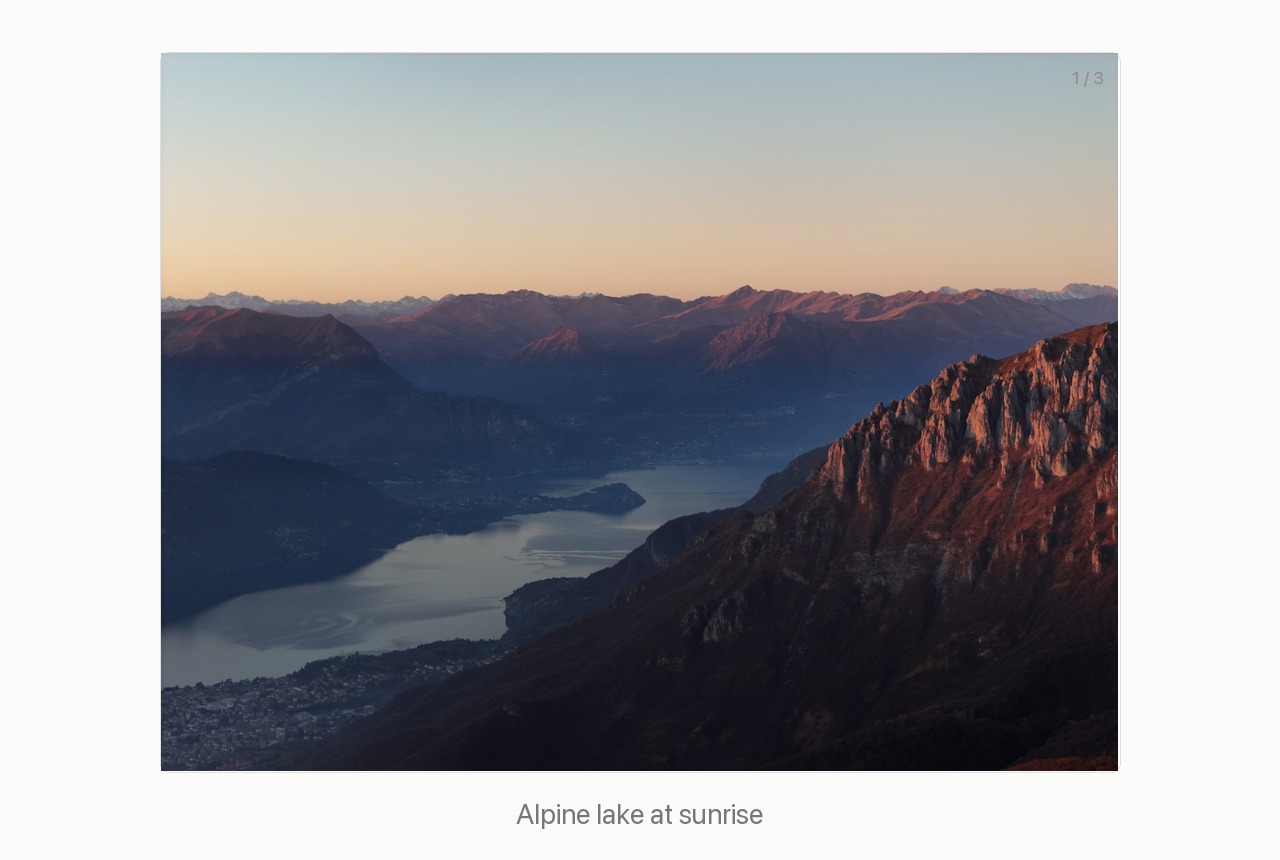
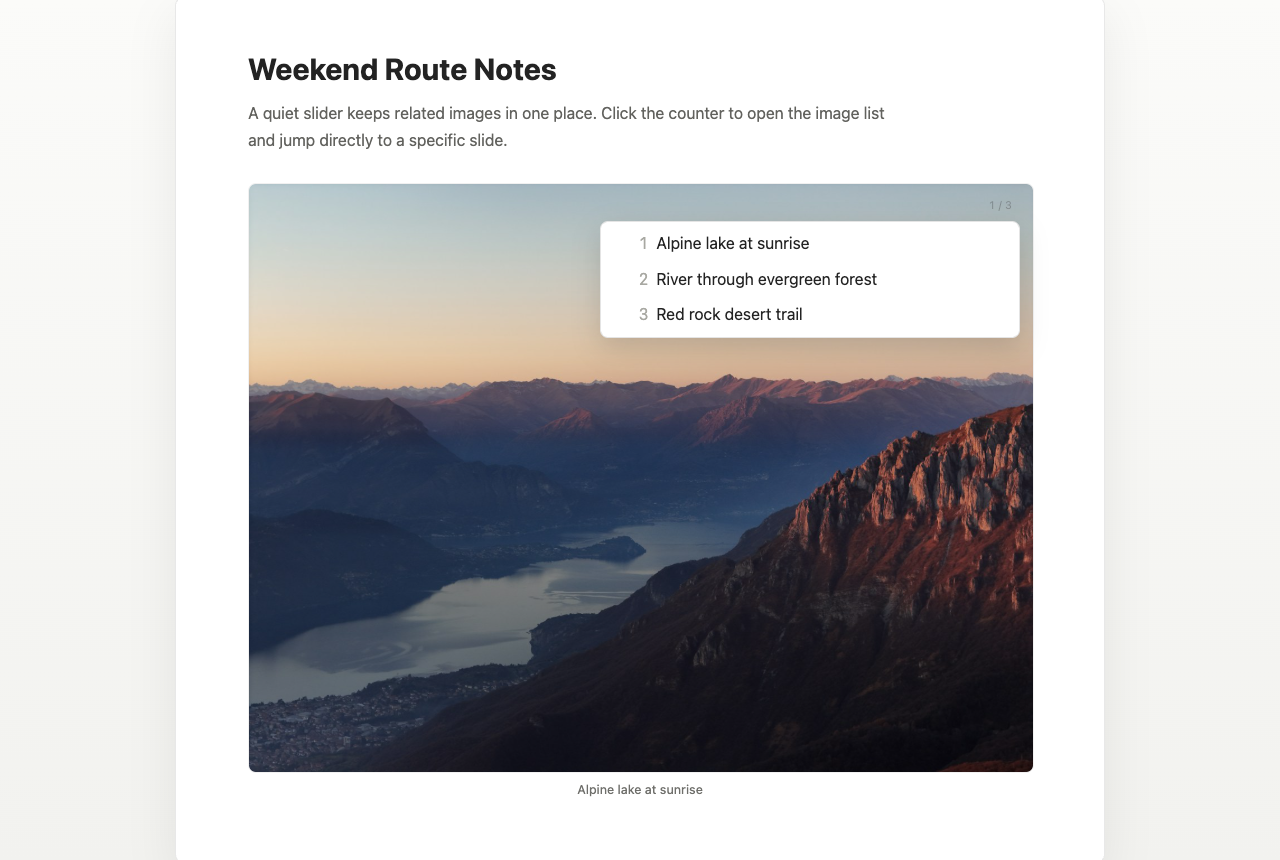
Release 0.1.4 image index UI

diff --git a/main.ts b/main.ts
@@ -371,7 +371,6 @@ export default class SimpleImageSliderPlugin extends Plugin {
     const wrapper = container.createDiv({ cls: "simple-image-slider" });
     wrapper.tabIndex = 0;
     wrapper.setAttr("role", "group");
-    wrapper.setAttr("aria-label", "Image slider");
 
     const frame = wrapper.createDiv({ cls: "simple-image-slider__frame" });
     const track = frame.createDiv({ cls: "simple-image-slider__track" });
@@ -392,18 +391,78 @@ export default class SimpleImageSliderPlugin extends Plugin {
         "aria-live": "polite"
       }
     });
+    const statusButton = status.createEl("button", {
+      cls: "simple-image-slider__index-button",
+      attr: {
+        "aria-expanded": "false",
+        "aria-haspopup": "listbox",
+        type: "button"
+      }
+    });
+    const indexMenu = wrapper.createDiv({
+      cls: "simple-image-slider__index-menu simple-image-slider__index-menu--hidden",
+      attr: {
+        role: "listbox"
+      }
+    });
     const caption = wrapper.createDiv({
       cls: "simple-image-slider__caption"
     });
 
     let previousButton: HTMLButtonElement | null = null;
     let nextButton: HTMLButtonElement | null = null;
+    let isDocumentClickBound = false;
 
     const normalizeIndex = (index: number): number =>
       (index + slides.length) % slides.length;
 
     const rememberCurrentSlide = (): void => {
       onSlideChange(currentIndex, slides[currentIndex].path);
+    };
+
+    const menuLabelForSlide = (slide: ResolvedSlide): string =>
+      slide.caption || fileNameFromPath(slide.path);
+
+    const onDocumentClick = (): void => {
+      closeIndexMenu();
+    };
+
+    function closeIndexMenu(): void {
+      indexMenu.addClass("simple-image-slider__index-menu--hidden");
+      statusButton.setAttr("aria-expanded", "false");
+      if (isDocumentClickBound) {
+        document.removeEventListener("click", onDocumentClick);
+        isDocumentClickBound = false;
+      }
+    }
+
+    const openIndexMenu = (): void => {
+      indexMenu.removeClass("simple-image-slider__index-menu--hidden");
+      statusButton.setAttr("aria-expanded", "true");
+      if (!isDocumentClickBound) {
+        document.addEventListener("click", onDocumentClick);
+        isDocumentClickBound = true;
+      }
+    };
+
+    const toggleIndexMenu = (): void => {
+      if (indexMenu.hasClass("simple-image-slider__index-menu--hidden")) {
+        openIndexMenu();
+      } else {
+        closeIndexMenu();
+      }
+    };
+
+    const jumpToIndex = (index: number): void => {
+      if (isAnimating) {
+        return;
+      }
+
+      currentIndex = normalizeIndex(index);
+      rememberCurrentSlide();
+      update();
+      closeIndexMenu();
+      wrapper.focus();
     };
 
     const setTrackOffset = (offsetPx: number, animated: boolean): void => {
@@ -435,7 +494,18 @@ export default class SimpleImageSliderPlugin extends Plugin {
       caption.textContent = slide.caption;
       caption.toggleClass("simple-image-slider__caption--hidden", !slide.caption);
 
-      status.textContent = `${currentIndex + 1} / ${slides.length}`;
+      statusButton.textContent = `${currentIndex + 1} / ${slides.length}`;
+
+      const options = Array.from(
+        indexMenu.querySelectorAll<HTMLButtonElement>(
+          ".simple-image-slider__index-option"
+        )
+      );
+      for (const [index, option] of options.entries()) {
+        const isCurrent = index === currentIndex;
+        option.toggleClass("simple-image-slider__index-option--current", isCurrent);
+        option.setAttr("aria-selected", isCurrent ? "true" : "false");
+      }
     };
 
     const update = (): void => {
@@ -483,6 +553,7 @@ export default class SimpleImageSliderPlugin extends Plugin {
         return;
       }
 
+      closeIndexMenu();
       isAnimating = true;
       const frameWidth = frame.getBoundingClientRect().width;
       setTrackOffset(direction === 1 ? -frameWidth : frameWidth, true);
@@ -498,6 +569,39 @@ export default class SimpleImageSliderPlugin extends Plugin {
     };
 
     if (slides.length > 1) {
+      statusButton.addEventListener("click", (event: MouseEvent) => {
+        event.preventDefault();
+        event.stopPropagation();
+        toggleIndexMenu();
+      });
+
+      indexMenu.addEventListener("click", (event: MouseEvent) => {
+        event.stopPropagation();
+      });
+
+      slides.forEach((slide, index) => {
+        const option = indexMenu.createEl("button", {
+          cls: "simple-image-slider__index-option",
+          attr: {
+            role: "option",
+            type: "button"
+          }
+        });
+        option.createSpan({
+          cls: "simple-image-slider__index-number",
+          text: String(index + 1)
+        });
+        option.createSpan({
+          cls: "simple-image-slider__index-label",
+          text: menuLabelForSlide(slide)
+        });
+        option.addEventListener("click", (event: MouseEvent) => {
+          event.preventDefault();
+          event.stopPropagation();
+          jumpToIndex(index);
+        });
+      });
+
       previousButton = frame.createEl("button", {
         cls: "simple-image-slider__button simple-image-slider__button--previous",
         attr: {
@@ -525,12 +629,20 @@ export default class SimpleImageSliderPlugin extends Plugin {
         return;
       }
 
-      if (event.key === "ArrowRight") {
+      if (event.key === "Escape") {
+        closeIndexMenu();
+      } else if (event.key === "ArrowRight") {
         event.preventDefault();
         slideWithAnimation(1);
       } else if (event.key === "ArrowLeft") {
         event.preventDefault();
         slideWithAnimation(-1);
+      }
+    });
+
+    this.register(() => {
+      if (isDocumentClickBound) {
+        document.removeEventListener("click", onDocumentClick);
       }
     });
 

diff --git a/styles.css b/styles.css
@@ -3,7 +3,7 @@
   --sis-control-fg-hover: rgba(23, 23, 23, 0.56);
   --sis-caption-fg: var(--text-muted);
   --sis-chip-bg: transparent;
-  --sis-chip-fg: rgba(23, 23, 23, 0.42);
+  --sis-chip-fg: rgba(23, 23, 23, 0.58);
   --sis-radius: 8px;
   --sis-frame-border: color-mix(
     in srgb,
@@ -153,14 +153,112 @@ button.simple-image-slider__button--next {
   color: var(--sis-chip-fg);
   font-size: 0.68em;
   font-variant-numeric: tabular-nums;
-  line-height: 1.2;
-  opacity: 0.6;
+  line-height: 1;
+  opacity: 0.66;
   padding: 0;
   position: absolute;
   right: 12px;
   text-align: center;
   top: 12px;
   z-index: 2;
+}
+
+button.simple-image-slider__index-button {
+  -webkit-appearance: none;
+  align-items: center;
+  appearance: none;
+  background: transparent;
+  border: 0;
+  border-radius: 5px;
+  box-shadow: none;
+  color: inherit;
+  cursor: pointer;
+  display: inline-flex;
+  font: inherit;
+  height: auto;
+  justify-content: center;
+  line-height: 1;
+  min-height: 0;
+  min-width: 0;
+  opacity: inherit;
+  padding: 5px 8px;
+  transition:
+    background-color 120ms ease,
+    box-shadow 120ms ease,
+    color 120ms ease,
+    opacity 120ms ease;
+}
+
+button.simple-image-slider__index-button:hover,
+button.simple-image-slider__index-button:focus-visible {
+  background: rgba(245, 245, 245, 0.76);
+  box-shadow: inset 0 0 0 1px rgba(23, 23, 23, 0.12);
+  color: rgba(23, 23, 23, 0.62);
+  opacity: 0.95;
+}
+
+.simple-image-slider__index-menu {
+  background: var(--background-primary);
+  border: 1px solid var(--background-modifier-border);
+  border-radius: var(--sis-radius);
+  box-shadow: 0 10px 28px rgba(0, 0, 0, 0.14);
+  box-sizing: border-box;
+  max-height: min(280px, 62vh);
+  min-width: min(320px, calc(100% - 24px));
+  overflow-y: auto;
+  padding: 4px;
+  position: absolute;
+  right: 12px;
+  top: 38px;
+  width: min(420px, calc(100% - 24px));
+  z-index: 8;
+}
+
+.simple-image-slider__index-menu--hidden {
+  display: none;
+}
+
+button.simple-image-slider__index-option {
+  -webkit-appearance: none;
+  align-items: center;
+  appearance: none;
+  background: transparent;
+  border: 0;
+  border-radius: 6px;
+  box-shadow: none;
+  color: var(--text-normal);
+  cursor: pointer;
+  display: grid;
+  font: inherit;
+  gap: 8px;
+  grid-template-columns: 2.2em minmax(0, 1fr);
+  line-height: 1.35;
+  padding: 7px 8px;
+  text-align: left;
+  width: 100%;
+}
+
+button.simple-image-slider__index-option:hover,
+button.simple-image-slider__index-option:focus-visible {
+  background: var(--background-modifier-hover);
+  color: var(--text-normal);
+}
+
+.simple-image-slider__index-option--current {
+  background: var(--background-modifier-hover);
+}
+
+.simple-image-slider__index-number {
+  color: var(--text-faint);
+  font-variant-numeric: tabular-nums;
+  text-align: right;
+}
+
+.simple-image-slider__index-label {
+  min-width: 0;
+  overflow: hidden;
+  text-overflow: ellipsis;
+  white-space: nowrap;
 }
 
 .simple-image-slider__warning,

diff --git a/main.js b/main.js
@@ -1,4 +1,4 @@
 /* Simple Image Slider */
-"use strict";var M=Object.defineProperty;var q=Object.getOwnPropertyDescriptor;var j=Object.getOwnPropertyNames;var G=Object.prototype.hasOwnProperty;var U=(l,e)=>{for(var t in e)M(l,t,{get:e[t],enumerable:!0})},W=(l,e,t,r)=>{if(e&&typeof e=="object"||typeof e=="function")for(let n of j(e))!G.call(l,n)&&n!==t&&M(l,n,{get:()=>e[n],enumerable:!(r=q(e,n))||r.enumerable});return l};var J=l=>W(M({},"__esModule",{value:!0}),l);var ee={};U(ee,{default:()=>T});module.exports=J(ee);var v=require("obsidian");var Q=new Set(["png","jpg","jpeg","gif","webp","svg","bmp","avif"]);function F(l){let e=[],t=[];for(let r of l.split(/\r?\n/)){let n=r.trim();if(!n)continue;let a=V(n);a?e.push(a):t.push(n)}return{slides:e,unsupportedLines:t}}function B(l){let e=[],t=/!\[\[([^\]|]+?)(?:\|([^\]]*?))?\]\]|!\[([^\]]*?)\]\(([^)\s]+)(?:\s+"[^"]*")?\)/g;for(let r of l.matchAll(t)){let n=r[2]?.trim(),a=r[3]?.trim(),o=n??a??"";e.push({caption:y(o)?"":o})}return e}function V(l){let e=l.match(/^!\[\[([^\]|]+?)(?:\|([^\]]*?))?\]\]$/);if(!e)return null;let t=e[1]?.trim();return t?{original:l,path:t,caption:(e[2]??"").trim()}:null}function y(l){return/^\d+(?:\s*x\s*\d+)?$/i.test(l)}function $(l){let t=(l.split("#")[0]?.split("?")[0]??l).match(/\.([^.\/\\]+)$/)?.[1]?.toLowerCase();return t?Q.has(t):!1}function X(l){let e=l.split("#")[0]??l,t=e.split("/");return t[t.length-1]||e}var Y=48,Z=8,T=class extends v.Plugin{normalCaptionRenderTimer=null;sliderStates=new Map;async onload(){this.addCommand({id:"insert-image-slider-block",name:"Insert image slider block",editorCallback:r=>{this.insertImageSliderBlock(r)}}),this.registerMarkdownPostProcessor((r,n)=>{this.renderNormalImageCaptions(r,n)});let e=new MutationObserver(r=>{r.some(n=>n.type==="attributes"||Array.from(n.addedNodes).some(a=>a instanceof HTMLImageElement||a instanceof HTMLElement&&!!a.querySelector("img")))&&this.scheduleNormalImageCaptionRender()});e.observe(document.body,{childList:!0,subtree:!0,attributes:!0,attributeFilter:["alt","class","src"]}),this.register(()=>e.disconnect());let t=()=>{this.scheduleNormalImageCaptionRender()};document.addEventListener("scroll",t,!0),this.register(()=>{document.removeEventListener("scroll",t,!0)}),this.registerEvent(this.app.workspace.on("active-leaf-change",()=>{this.scheduleNormalImageCaptionRender()})),this.registerEvent(this.app.workspace.on("file-open",()=>{this.scheduleNormalImageCaptionRender()})),this.app.workspace.onLayoutReady(()=>this.scheduleNormalImageCaptionRender()),this.registerMarkdownCodeBlockProcessor("image-slider",async(r,n,a)=>{await this.renderImageSlider(r,n,a)})}insertImageSliderBlock(e){let r=e.getSelection().trim(),n=e.getCursor(),o=`\`\`\`image-slider
+"use strict";var A=Object.defineProperty;var ee=Object.getOwnPropertyDescriptor;var te=Object.getOwnPropertyNames;var ne=Object.prototype.hasOwnProperty;var ie=(c,e)=>{for(var n in e)A(c,n,{get:e[n],enumerable:!0})},re=(c,e,n,r)=>{if(e&&typeof e=="object"||typeof e=="function")for(let i of te(e))!ne.call(c,i)&&i!==n&&A(c,i,{get:()=>e[i],enumerable:!(r=ee(e,i))||r.enumerable});return c};var se=c=>re(A({},"__esModule",{value:!0}),c);var ce={};ie(ce,{default:()=>M});module.exports=se(ce);var v=require("obsidian");var ae=new Set(["png","jpg","jpeg","gif","webp","svg","bmp","avif"]);function K(c){let e=[],n=[];for(let r of c.split(/\r?\n/)){let i=r.trim();if(!i)continue;let s=oe(i);s?e.push(s):n.push(i)}return{slides:e,unsupportedLines:n}}function j(c){let e=[],n=/!\[\[([^\]|]+?)(?:\|([^\]]*?))?\]\]|!\[([^\]]*?)\]\(([^)\s]+)(?:\s+"[^"]*")?\)/g;for(let r of c.matchAll(n)){let i=r[2]?.trim(),s=r[3]?.trim(),o=i??s??"";e.push({caption:H(o)?"":o})}return e}function oe(c){let e=c.match(/^!\[\[([^\]|]+?)(?:\|([^\]]*?))?\]\]$/);if(!e)return null;let n=e[1]?.trim();return n?{original:c,path:n,caption:(e[2]??"").trim()}:null}function H(c){return/^\d+(?:\s*x\s*\d+)?$/i.test(c)}function G(c){let n=(c.split("#")[0]?.split("?")[0]??c).match(/\.([^.\/\\]+)$/)?.[1]?.toLowerCase();return n?ae.has(n):!1}function N(c){let e=c.split("#")[0]??c,n=e.split("/");return n[n.length-1]||e}var U=48,le=8,M=class extends v.Plugin{normalCaptionRenderTimer=null;sliderStates=new Map;async onload(){this.addCommand({id:"insert-image-slider-block",name:"Insert image slider block",editorCallback:r=>{this.insertImageSliderBlock(r)}}),this.registerMarkdownPostProcessor((r,i)=>{this.renderNormalImageCaptions(r,i)});let e=new MutationObserver(r=>{r.some(i=>i.type==="attributes"||Array.from(i.addedNodes).some(s=>s instanceof HTMLImageElement||s instanceof HTMLElement&&!!s.querySelector("img")))&&this.scheduleNormalImageCaptionRender()});e.observe(document.body,{childList:!0,subtree:!0,attributes:!0,attributeFilter:["alt","class","src"]}),this.register(()=>e.disconnect());let n=()=>{this.scheduleNormalImageCaptionRender()};document.addEventListener("scroll",n,!0),this.register(()=>{document.removeEventListener("scroll",n,!0)}),this.registerEvent(this.app.workspace.on("active-leaf-change",()=>{this.scheduleNormalImageCaptionRender()})),this.registerEvent(this.app.workspace.on("file-open",()=>{this.scheduleNormalImageCaptionRender()})),this.app.workspace.onLayoutReady(()=>this.scheduleNormalImageCaptionRender()),this.registerMarkdownCodeBlockProcessor("image-slider",async(r,i,s)=>{await this.renderImageSlider(r,i,s)})}insertImageSliderBlock(e){let r=e.getSelection().trim(),i=e.getCursor(),o=`\`\`\`image-slider
 ${r||"![[|caption]]"}
-\`\`\``;e.replaceSelection(o),r||e.setCursor({line:n.line+1,ch:3})}scheduleNormalImageCaptionRender(){this.normalCaptionRenderTimer!==null&&window.clearTimeout(this.normalCaptionRenderTimer),this.normalCaptionRenderTimer=window.setTimeout(()=>{this.normalCaptionRenderTimer=null;let e=Array.from(document.body.querySelectorAll(".markdown-preview-view, .markdown-source-view"));for(let t of e)this.applyNormalImageCaptions(t,[])},120)}renderNormalImageCaptions(e,t){if(e.hasClass("simple-image-slider")||e.find(".simple-image-slider"))return;let r=t.getSectionInfo(e);if(!r)return;let n=B(r.text);n.length!==0&&(this.applyNormalImageCaptions(e,n),window.setTimeout(()=>this.applyNormalImageCaptions(e,n),100),window.setTimeout(()=>this.applyNormalImageCaptions(e,n),500))}applyNormalImageCaptions(e,t){let r=Array.from(e.querySelectorAll("img")).filter(a=>this.shouldCaptionImage(a));if(r.length===0)return;let n=0;for(let a of r){let o=t[n];n+=1;let m=this.captionForImage(a,o);m&&this.applyCaptionToImage(a,m)}}captionForImage(e,t){let n=((e.getAttr("alt")??e.closest(".internal-embed.image-embed")?.getAttr("alt")??e.closest(".external-embed.image-embed")?.getAttr("alt")??"")||t?.caption||"").trim();return!n||y(n)||n===this.fileNameForRenderedImage(e)?"":n}fileNameForRenderedImage(e){let t=e.closest(".internal-embed.image-embed")?.getAttr("src")??e.closest(".external-embed.image-embed")?.getAttr("src")??e.getAttr("src")??"",r=t.split("?")[0]?.split("#")[0]??t,n=r;try{n=decodeURIComponent(r)}catch{n=r}let a=n.split(/[\\/]/);return a[a.length-1]?.trim()??""}shouldCaptionImage(e){return!e.hasClass("cm-widgetBuffer")&&!e.closest(".simple-image-slider")&&!e.closest(".simple-image-caption")}applyCaptionToImage(e,t){let r=e.closest(".internal-embed.image-embed")??e.closest(".external-embed.image-embed")??e.closest("a")??e.parentElement??e;r.addClass("simple-image-caption"),r.setAttr("data-simple-image-caption",t)}async renderImageSlider(e,t,r){t.empty();let n=F(e),a=this.resolveSlides(n.slides,r.sourcePath),o=n.unsupportedLines.length+a.skippedCount,m=this.sliderStateKey(e,t,r);if(a.slides.length===0){t.createDiv({cls:"simple-image-slider-empty",text:"No valid images found."});return}this.createSlider(t,a.slides,o,this.restoredSliderIndex(m,a.slides),(u,g)=>{this.sliderStates.set(m,{index:u,path:g})})}sliderStateKey(e,t,r){let n=r.getSectionInfo(t);return n?`${r.sourcePath}:${n.lineStart}`:`${r.sourcePath}:${e}`}restoredSliderIndex(e,t){let r=this.sliderStates.get(e);if(!r)return 0;let n=t.findIndex(a=>a.path===r.path);return n>=0?n:Math.min(Math.max(r.index,0),t.length-1)}resolveSlides(e,t){let r=[],n=0;for(let a of e){let o=this.resolveImageFile(a.path,t);if(!o||!$(o.path)){n+=1;continue}r.push({path:o.path,resourcePath:this.app.vault.adapter.getResourcePath(o.path),caption:a.caption,alt:a.caption||X(o.path)})}return{slides:r,skippedCount:n}}resolveImageFile(e,t){let r=this.app.metadataCache.getFirstLinkpathDest(e,t);if(r instanceof v.TFile)return r;let n=this.app.vault.getAbstractFileByPath(e);if(n instanceof v.TFile)return n;let a=this.app.vault.getFiles().filter(o=>o.name.toLowerCase()===e.toLowerCase());return a.length===1?a[0]:null}createSlider(e,t,r,n,a){let o=Math.min(Math.max(n,0),t.length-1),m=null,u=null,g=null,b=null,d=!1,I=null,f=e.createDiv({cls:"simple-image-slider"});f.tabIndex=0,f.setAttr("role","group"),f.setAttr("aria-label","Image slider");let p=f.createDiv({cls:"simple-image-slider__frame"}),C=p.createDiv({cls:"simple-image-slider__track"}),O=[-1,0,1].map(i=>{let s=C.createDiv({cls:"simple-image-slider__slide"}),c=s.createEl("img",{cls:"simple-image-slider__image",attr:{draggable:"false"}});return{element:s,image:c,offset:i}}),z=f.createDiv({cls:"simple-image-slider__status",attr:{"aria-live":"polite"}}),x=f.createDiv({cls:"simple-image-slider__caption"}),P=null,w=null,_=i=>(i+t.length)%t.length,k=()=>{a(o,t[o].path)},E=(i,s)=>{C.toggleClass("simple-image-slider__track--animated",s),C.style.transform=i===0?"translate3d(-100%, 0, 0)":`translate3d(calc(-100% + ${i}px), 0, 0)`},R=()=>{for(let i of O){let s=_(o+i.offset),c=t[s],h=i.offset===0;i.image.src=c.resourcePath,i.image.alt=h?c.alt:"",i.image.setAttr("data-slide-path",c.path),i.image.toggleClass("simple-image-slider__image--current",h),i.element.toggleClass("simple-image-slider__slide--current",h),i.element.setAttr("aria-hidden",h?"false":"true")}},D=()=>{let i=t[o];x.textContent=i.caption,x.toggleClass("simple-image-slider__caption--hidden",!i.caption),z.textContent=`${o+1} / ${t.length}`},K=()=>{R(),D(),E(0,!1)},H=i=>{let s=!1,c=()=>{s||(s=!0,I!==null&&(window.clearTimeout(I),I=null),C.removeEventListener("transitionend",c),i())};C.addEventListener("transitionend",c),I=window.setTimeout(c,360)},L=()=>{d||(d=!0,E(0,!0),H(()=>{E(0,!1),d=!1}))},S=i=>{if(t.length<=1||d)return;d=!0;let s=p.getBoundingClientRect().width;E(i===1?-s:s,!0),H(()=>{o=_(o+i),k(),R(),D(),E(0,!1),d=!1})};t.length>1&&(P=p.createEl("button",{cls:"simple-image-slider__button simple-image-slider__button--previous",attr:{"aria-label":"Previous image",type:"button"}}),(0,v.setIcon)(P,"chevron-left"),w=p.createEl("button",{cls:"simple-image-slider__button simple-image-slider__button--next",attr:{"aria-label":"Next image",type:"button"}}),(0,v.setIcon)(w,"chevron-right"),this.bindNavigationButton(P,()=>S(-1)),this.bindNavigationButton(w,()=>S(1))),f.addEventListener("keydown",i=>{t.length<=1||(i.key==="ArrowRight"?(i.preventDefault(),S(1)):i.key==="ArrowLeft"&&(i.preventDefault(),S(-1)))});let A=(i,s)=>Math.abs(i)<Y||Math.abs(i)<Math.abs(s)?!1:(S(i<0?1:-1),!0),N=(i,s)=>Math.abs(i)>=Z&&Math.abs(i)>Math.abs(s);p.addEventListener("pointerdown",i=>{if(!(t.length<=1||i.pointerType==="touch"||d)){C.toggleClass("simple-image-slider__track--animated",!1),m=i.clientX,u=i.clientY;try{p.setPointerCapture(i.pointerId)}catch{}}}),p.addEventListener("pointermove",i=>{if(t.length<=1||i.pointerType==="touch"||m===null||u===null||d)return;let s=i.clientX-m,c=i.clientY-u;N(s,c)&&(i.preventDefault(),E(s,!1))}),p.addEventListener("pointerup",i=>{if(t.length<=1||i.pointerType==="touch"||m===null||u===null||d)return;let s=i.clientX-m,c=i.clientY-u;m=null,u=null,A(s,c)||L()}),p.addEventListener("pointercancel",()=>{m=null,u=null,d||L()}),p.addEventListener("touchstart",i=>{if(t.length<=1||i.touches.length!==1||d)return;i.stopPropagation(),C.toggleClass("simple-image-slider__track--animated",!1);let s=i.touches[0];g=s.clientX,b=s.clientY},{passive:!1}),p.addEventListener("touchmove",i=>{if(t.length<=1||g===null||b===null||i.touches.length!==1||d)return;let s=i.touches[0],c=s.clientX-g,h=s.clientY-b;N(c,h)&&(i.preventDefault(),i.stopPropagation(),E(c,!1))},{passive:!1}),p.addEventListener("touchend",i=>{if(t.length<=1||g===null||b===null||i.changedTouches.length!==1||d)return;i.stopPropagation();let s=i.changedTouches[0],c=s.clientX-g,h=s.clientY-b;g=null,b=null,Math.abs(c)>=Y&&Math.abs(c)>=Math.abs(h)?(i.preventDefault(),i.stopPropagation(),A(c,h)):L()},{passive:!1}),p.addEventListener("touchcancel",()=>{g=null,b=null,d||L()}),r>0&&f.createDiv({cls:"simple-image-slider__warning",text:`${r} image${r===1?"":"s"} could not be resolved.`}).setAttr("aria-live","polite"),K(),k()}bindNavigationButton(e,t){let r=0;e.addEventListener("pointerdown",n=>{n.preventDefault(),n.stopPropagation()}),e.addEventListener("pointerup",n=>{n.preventDefault(),n.stopPropagation()}),e.addEventListener("touchstart",n=>{n.preventDefault(),n.stopPropagation()},{passive:!1}),e.addEventListener("touchend",n=>{n.preventDefault(),n.stopPropagation(),r=Date.now(),t()},{passive:!1}),e.addEventListener("click",n=>{n.preventDefault(),n.stopPropagation(),!(Date.now()-r<500)&&t()})}};
+\`\`\``;e.replaceSelection(o),r||e.setCursor({line:i.line+1,ch:3})}scheduleNormalImageCaptionRender(){this.normalCaptionRenderTimer!==null&&window.clearTimeout(this.normalCaptionRenderTimer),this.normalCaptionRenderTimer=window.setTimeout(()=>{this.normalCaptionRenderTimer=null;let e=Array.from(document.body.querySelectorAll(".markdown-preview-view, .markdown-source-view"));for(let n of e)this.applyNormalImageCaptions(n,[])},120)}renderNormalImageCaptions(e,n){if(e.hasClass("simple-image-slider")||e.find(".simple-image-slider"))return;let r=n.getSectionInfo(e);if(!r)return;let i=j(r.text);i.length!==0&&(this.applyNormalImageCaptions(e,i),window.setTimeout(()=>this.applyNormalImageCaptions(e,i),100),window.setTimeout(()=>this.applyNormalImageCaptions(e,i),500))}applyNormalImageCaptions(e,n){let r=Array.from(e.querySelectorAll("img")).filter(s=>this.shouldCaptionImage(s));if(r.length===0)return;let i=0;for(let s of r){let o=n[i];i+=1;let p=this.captionForImage(s,o);p&&this.applyCaptionToImage(s,p)}}captionForImage(e,n){let i=((e.getAttr("alt")??e.closest(".internal-embed.image-embed")?.getAttr("alt")??e.closest(".external-embed.image-embed")?.getAttr("alt")??"")||n?.caption||"").trim();return!i||H(i)||i===this.fileNameForRenderedImage(e)?"":i}fileNameForRenderedImage(e){let n=e.closest(".internal-embed.image-embed")?.getAttr("src")??e.closest(".external-embed.image-embed")?.getAttr("src")??e.getAttr("src")??"",r=n.split("?")[0]?.split("#")[0]??n,i=r;try{i=decodeURIComponent(r)}catch{i=r}let s=i.split(/[\\/]/);return s[s.length-1]?.trim()??""}shouldCaptionImage(e){return!e.hasClass("cm-widgetBuffer")&&!e.closest(".simple-image-slider")&&!e.closest(".simple-image-caption")}applyCaptionToImage(e,n){let r=e.closest(".internal-embed.image-embed")??e.closest(".external-embed.image-embed")??e.closest("a")??e.parentElement??e;r.addClass("simple-image-caption"),r.setAttr("data-simple-image-caption",n)}async renderImageSlider(e,n,r){n.empty();let i=K(e),s=this.resolveSlides(i.slides,r.sourcePath),o=i.unsupportedLines.length+s.skippedCount,p=this.sliderStateKey(e,n,r);if(s.slides.length===0){n.createDiv({cls:"simple-image-slider-empty",text:"No valid images found."});return}this.createSlider(n,s.slides,o,this.restoredSliderIndex(p,s.slides),(g,h)=>{this.sliderStates.set(p,{index:g,path:h})})}sliderStateKey(e,n,r){let i=r.getSectionInfo(n);return i?`${r.sourcePath}:${i.lineStart}`:`${r.sourcePath}:${e}`}restoredSliderIndex(e,n){let r=this.sliderStates.get(e);if(!r)return 0;let i=n.findIndex(s=>s.path===r.path);return i>=0?i:Math.min(Math.max(r.index,0),n.length-1)}resolveSlides(e,n){let r=[],i=0;for(let s of e){let o=this.resolveImageFile(s.path,n);if(!o||!G(o.path)){i+=1;continue}r.push({path:o.path,resourcePath:this.app.vault.adapter.getResourcePath(o.path),caption:s.caption,alt:s.caption||N(o.path)})}return{slides:r,skippedCount:i}}resolveImageFile(e,n){let r=this.app.metadataCache.getFirstLinkpathDest(e,n);if(r instanceof v.TFile)return r;let i=this.app.vault.getAbstractFileByPath(e);if(i instanceof v.TFile)return i;let s=this.app.vault.getFiles().filter(o=>o.name.toLowerCase()===e.toLowerCase());return s.length===1?s[0]:null}createSlider(e,n,r,i,s){let o=Math.min(Math.max(i,0),n.length-1),p=null,g=null,h=null,b=null,d=!1,T=null,f=e.createDiv({cls:"simple-image-slider"});f.tabIndex=0,f.setAttr("role","group");let u=f.createDiv({cls:"simple-image-slider__frame"}),E=u.createDiv({cls:"simple-image-slider__track"}),W=[-1,0,1].map(t=>{let a=E.createDiv({cls:"simple-image-slider__slide"}),l=a.createEl("img",{cls:"simple-image-slider__image",attr:{draggable:"false"}});return{element:a,image:l,offset:t}}),P=f.createDiv({cls:"simple-image-slider__status",attr:{"aria-live":"polite"}}).createEl("button",{cls:"simple-image-slider__index-button",attr:{"aria-expanded":"false","aria-haspopup":"listbox",type:"button"}}),S=f.createDiv({cls:"simple-image-slider__index-menu simple-image-slider__index-menu--hidden",attr:{role:"listbox"}}),F=f.createDiv({cls:"simple-image-slider__caption"}),w=null,y=null,L=!1,k=t=>(t+n.length)%n.length,R=()=>{s(o,n[o].path)},J=t=>t.caption||N(t.path),D=()=>{I()};function I(){S.addClass("simple-image-slider__index-menu--hidden"),P.setAttr("aria-expanded","false"),L&&(document.removeEventListener("click",D),L=!1)}let Q=()=>{S.removeClass("simple-image-slider__index-menu--hidden"),P.setAttr("aria-expanded","true"),L||(document.addEventListener("click",D),L=!0)},V=()=>{S.hasClass("simple-image-slider__index-menu--hidden")?Q():I()},Z=t=>{d||(o=k(t),R(),X(),I(),f.focus())},C=(t,a)=>{E.toggleClass("simple-image-slider__track--animated",a),E.style.transform=t===0?"translate3d(-100%, 0, 0)":`translate3d(calc(-100% + ${t}px), 0, 0)`},B=()=>{for(let t of W){let a=k(o+t.offset),l=n[a],m=t.offset===0;t.image.src=l.resourcePath,t.image.alt=m?l.alt:"",t.image.setAttr("data-slide-path",l.path),t.image.toggleClass("simple-image-slider__image--current",m),t.element.toggleClass("simple-image-slider__slide--current",m),t.element.setAttr("aria-hidden",m?"false":"true")}},$=()=>{let t=n[o];F.textContent=t.caption,F.toggleClass("simple-image-slider__caption--hidden",!t.caption),P.textContent=`${o+1} / ${n.length}`;let a=Array.from(S.querySelectorAll(".simple-image-slider__index-option"));for(let[l,m]of a.entries()){let z=l===o;m.toggleClass("simple-image-slider__index-option--current",z),m.setAttr("aria-selected",z?"true":"false")}},X=()=>{B(),$(),C(0,!1)},Y=t=>{let a=!1,l=()=>{a||(a=!0,T!==null&&(window.clearTimeout(T),T=null),E.removeEventListener("transitionend",l),t())};E.addEventListener("transitionend",l),T=window.setTimeout(l,360)},_=()=>{d||(d=!0,C(0,!0),Y(()=>{C(0,!1),d=!1}))},x=t=>{if(n.length<=1||d)return;I(),d=!0;let a=u.getBoundingClientRect().width;C(t===1?-a:a,!0),Y(()=>{o=k(o+t),R(),B(),$(),C(0,!1),d=!1})};n.length>1&&(P.addEventListener("click",t=>{t.preventDefault(),t.stopPropagation(),V()}),S.addEventListener("click",t=>{t.stopPropagation()}),n.forEach((t,a)=>{let l=S.createEl("button",{cls:"simple-image-slider__index-option",attr:{role:"option",type:"button"}});l.createSpan({cls:"simple-image-slider__index-number",text:String(a+1)}),l.createSpan({cls:"simple-image-slider__index-label",text:J(t)}),l.addEventListener("click",m=>{m.preventDefault(),m.stopPropagation(),Z(a)})}),w=u.createEl("button",{cls:"simple-image-slider__button simple-image-slider__button--previous",attr:{"aria-label":"Previous image",type:"button"}}),(0,v.setIcon)(w,"chevron-left"),y=u.createEl("button",{cls:"simple-image-slider__button simple-image-slider__button--next",attr:{"aria-label":"Next image",type:"button"}}),(0,v.setIcon)(y,"chevron-right"),this.bindNavigationButton(w,()=>x(-1)),this.bindNavigationButton(y,()=>x(1))),f.addEventListener("keydown",t=>{n.length<=1||(t.key==="Escape"?I():t.key==="ArrowRight"?(t.preventDefault(),x(1)):t.key==="ArrowLeft"&&(t.preventDefault(),x(-1)))}),this.register(()=>{L&&document.removeEventListener("click",D)});let O=(t,a)=>Math.abs(t)<U||Math.abs(t)<Math.abs(a)?!1:(x(t<0?1:-1),!0),q=(t,a)=>Math.abs(t)>=le&&Math.abs(t)>Math.abs(a);u.addEventListener("pointerdown",t=>{if(!(n.length<=1||t.pointerType==="touch"||d)){E.toggleClass("simple-image-slider__track--animated",!1),p=t.clientX,g=t.clientY;try{u.setPointerCapture(t.pointerId)}catch{}}}),u.addEventListener("pointermove",t=>{if(n.length<=1||t.pointerType==="touch"||p===null||g===null||d)return;let a=t.clientX-p,l=t.clientY-g;q(a,l)&&(t.preventDefault(),C(a,!1))}),u.addEventListener("pointerup",t=>{if(n.length<=1||t.pointerType==="touch"||p===null||g===null||d)return;let a=t.clientX-p,l=t.clientY-g;p=null,g=null,O(a,l)||_()}),u.addEventListener("pointercancel",()=>{p=null,g=null,d||_()}),u.addEventListener("touchstart",t=>{if(n.length<=1||t.touches.length!==1||d)return;t.stopPropagation(),E.toggleClass("simple-image-slider__track--animated",!1);let a=t.touches[0];h=a.clientX,b=a.clientY},{passive:!1}),u.addEventListener("touchmove",t=>{if(n.length<=1||h===null||b===null||t.touches.length!==1||d)return;let a=t.touches[0],l=a.clientX-h,m=a.clientY-b;q(l,m)&&(t.preventDefault(),t.stopPropagation(),C(l,!1))},{passive:!1}),u.addEventListener("touchend",t=>{if(n.length<=1||h===null||b===null||t.changedTouches.length!==1||d)return;t.stopPropagation();let a=t.changedTouches[0],l=a.clientX-h,m=a.clientY-b;h=null,b=null,Math.abs(l)>=U&&Math.abs(l)>=Math.abs(m)?(t.preventDefault(),t.stopPropagation(),O(l,m)):_()},{passive:!1}),u.addEventListener("touchcancel",()=>{h=null,b=null,d||_()}),r>0&&f.createDiv({cls:"simple-image-slider__warning",text:`${r} image${r===1?"":"s"} could not be resolved.`}).setAttr("aria-live","polite"),X(),R()}bindNavigationButton(e,n){let r=0;e.addEventListener("pointerdown",i=>{i.preventDefault(),i.stopPropagation()}),e.addEventListener("pointerup",i=>{i.preventDefault(),i.stopPropagation()}),e.addEventListener("touchstart",i=>{i.preventDefault(),i.stopPropagation()},{passive:!1}),e.addEventListener("touchend",i=>{i.preventDefault(),i.stopPropagation(),r=Date.now(),n()},{passive:!1}),e.addEventListener("click",i=>{i.preventDefault(),i.stopPropagation(),!(Date.now()-r<500)&&n()})}};

diff --git a/README.md b/README.md
@@ -10,6 +10,7 @@ It is intentionally small. It supports Obsidian image wikilinks, click navigatio
 
 - Render multiple Obsidian image embeds as one slider.
 - Swipe or drag horizontally to move between images.
+- Click the counter to open an image list and jump directly to a slide.
 - Use left/right keyboard navigation when the slider has focus.
 - Keep captions below images so they do not cover image content.
 - Hide visual controls by default for a quiet article-style layout.
@@ -54,6 +55,7 @@ For ordinary images, `|300` and `|300x200` are treated as Obsidian size aliases,
 
 - One image is shown at a time.
 - Previous and next controls wrap around at the ends.
+- The counter opens a compact image list for quick slide switching.
 - Horizontal swipe or drag changes slides.
 - The current image is preserved when the same slider block re-renders after editing.
 - Small accidental drag movement is ignored.